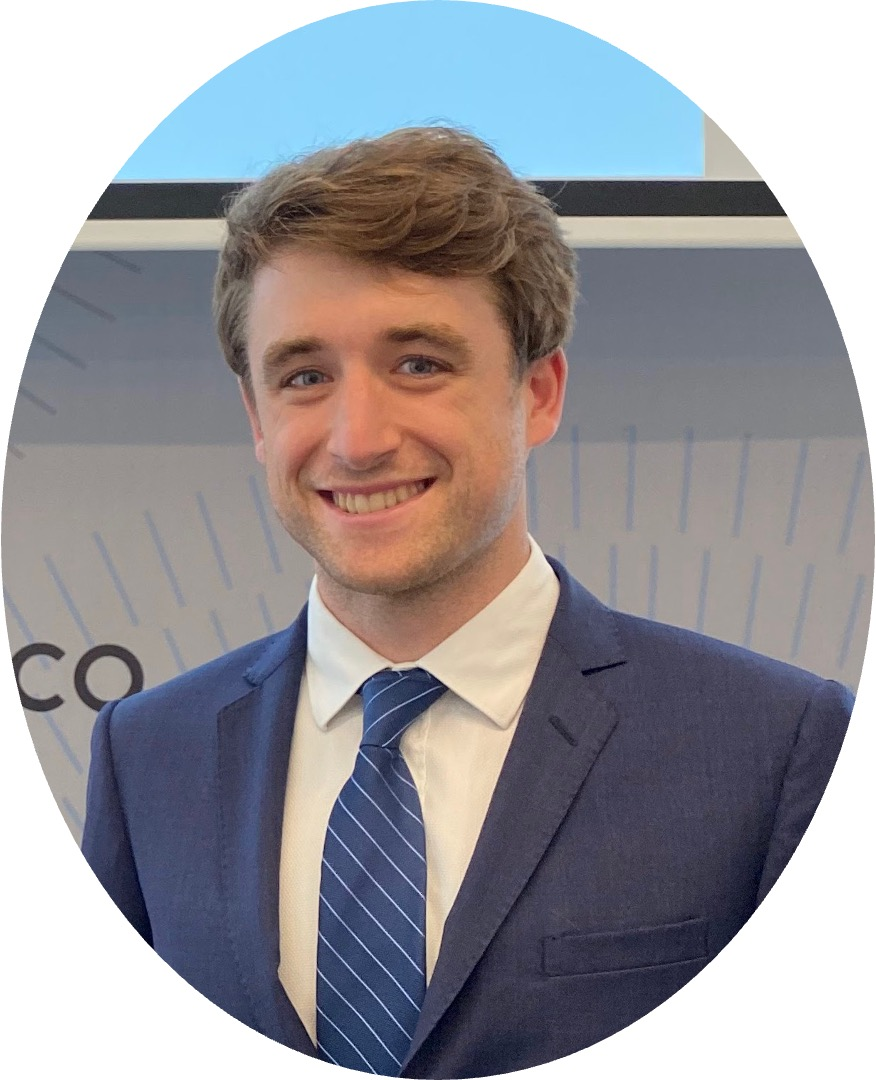
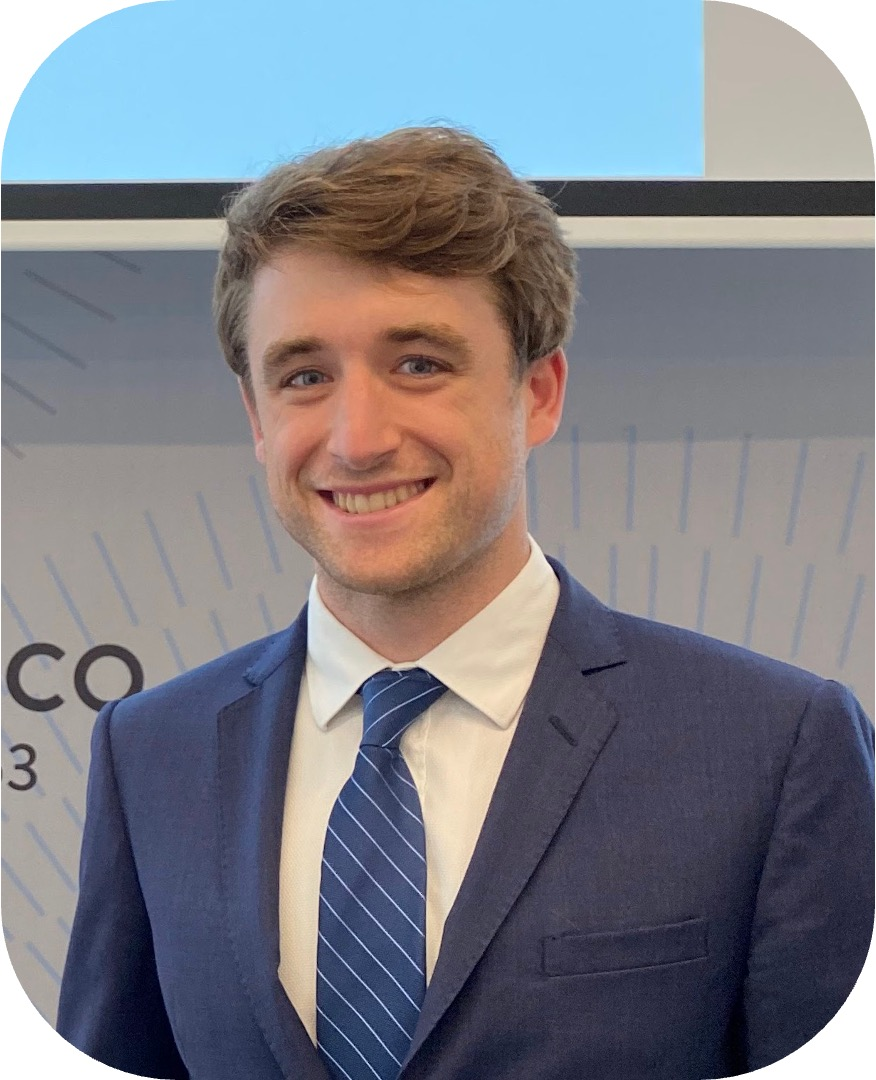
changing home page formatting

diff --git a/_layouts/home.html b/_layouts/home.html
@@ -43,6 +43,7 @@ layout: default
   display: flex;
   flex-wrap: wrap;
   align-items: center;
+  text-align: justify; 
   }
 
   @media screen and (min-width: 768px) {
@@ -52,8 +53,10 @@ layout: default
     height: auto;
     margin-right: 20px;
     margin-bottom: 20px;
+    padding: 40px;
   }}
 
+  
   .home .intro-text {
     flex: 1;
   }

diff --git a/_site/index.html b/_site/index.html
@@ -82,6 +82,7 @@
   display: flex;
   flex-wrap: wrap;
   align-items: center;
+  text-align: justify; 
   }
 
   @media screen and (min-width: 768px) {
@@ -91,8 +92,10 @@
     height: auto;
     margin-right: 20px;
     margin-bottom: 20px;
+    padding: 40px;
   }}
 
+  
   .home .intro-text {
     flex: 1;
   }
